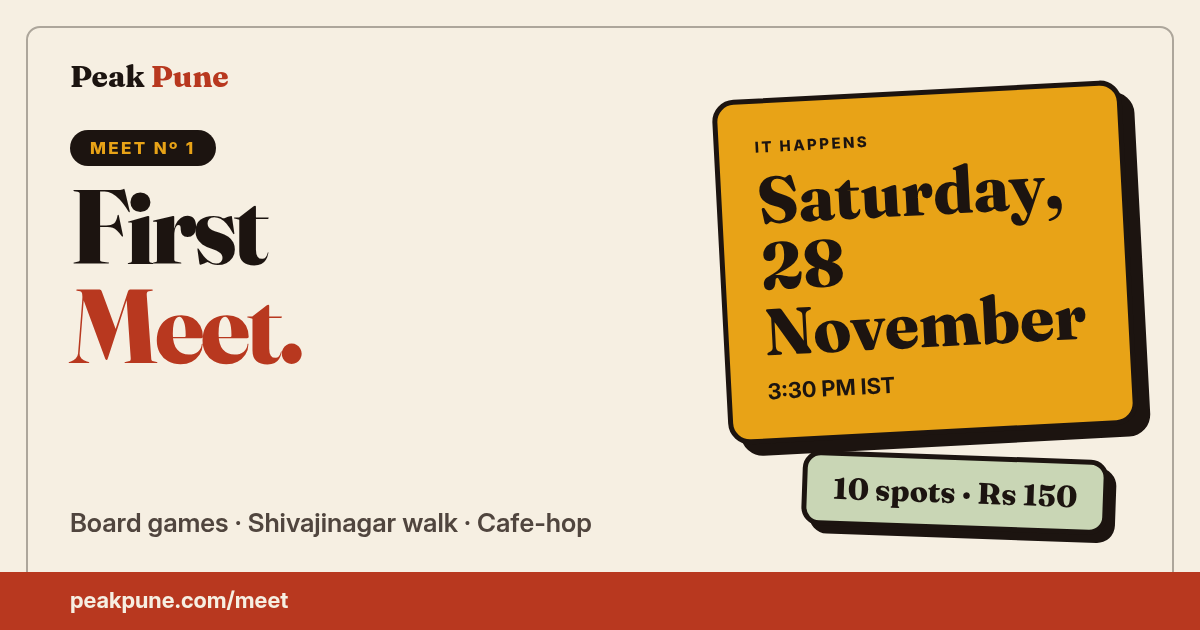
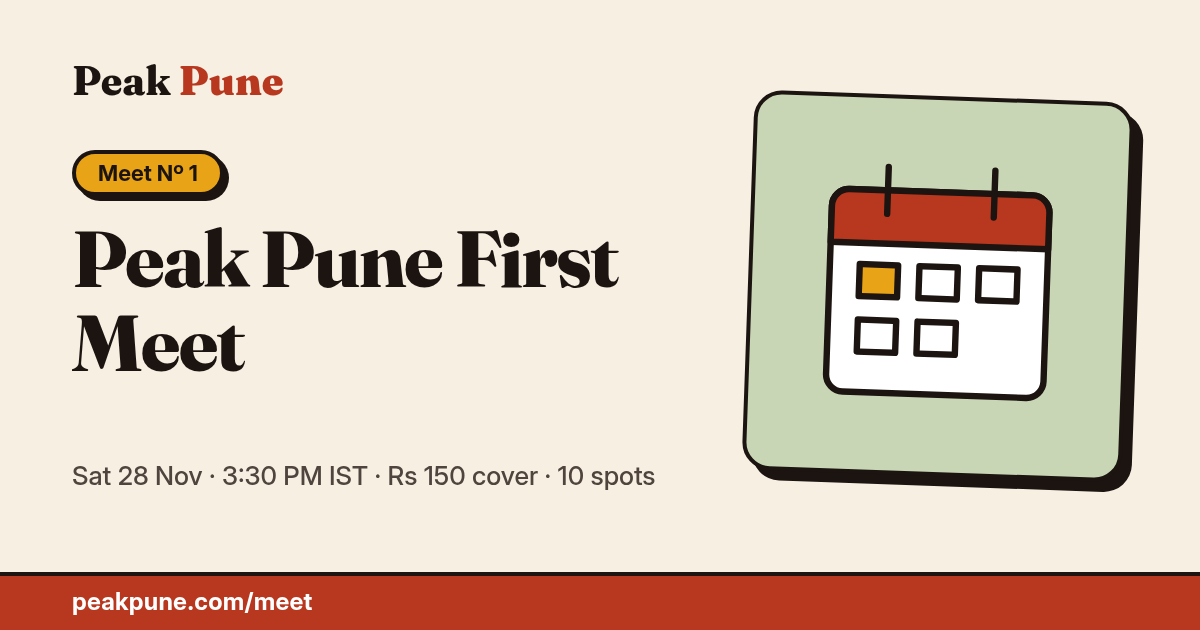
Meet: drop the live spots-open count, first come first served
No backend tracks paid spots, so the count could go stale. Show
'10 spots, first come first served' on the meet card, Events card,
homepage poster and OG image; a Full state is set manually.

diff --git a/public/index.html b/public/index.html
@@ -42,7 +42,7 @@
 <p class="lede">City radar for the interesting side of Pune. A short list, every pick linked to its source.</p>
 <p class="actions"><a class="primary" href="#radar">See what is on the radar</a><a class="chip" href="/manifesto/">Read the manifesto</a></p></div>
 <div class="sign" lang="mr">दुपारी १ ते ४<br>दुकान बंद<small lang="en">PEAK PUNE · THE CITY HAS ITS TIMINGS.</small></div></div>
-<a class="meet-poster section" href="/meet/" aria-label="Peak Pune First Meet. View details and RSVP"><div class="meet-poster-copy"><span class="eyebrow">Official Peak Pune meet · Nº 1 · Exclusive, strictly 10 people</span><h2>Peak Pune <em>First Meet.</em></h2><p class="meet-poster-date">Saturday, 28 Nov 2026 <span>3:30 PM IST · First meet</span></p><p>3:30 PM sharp · Board game cafe, location shared after payment</p><p>Then we take a Shivajinagar walk. After that, we cafe-hop depending on the vibe: Good Luck, Chirp or somewhere else.</p><p>10 spots · 10 open · Rs 150 cover charge by UPI, then confirm on WhatsApp.</p><p class="note">Hosted by Shreya, with co-host Aakash.</p></div><span class="meet-poster-cta">See the meet and RSVP <span aria-hidden="true">↗</span></span></a>
+<a class="meet-poster section" href="/meet/" aria-label="Peak Pune First Meet. View details and RSVP"><div class="meet-poster-copy"><span class="eyebrow">Official Peak Pune meet · Nº 1 · Exclusive, strictly 10 people</span><h2>Peak Pune <em>First Meet.</em></h2><p class="meet-poster-date">Saturday, 28 Nov 2026 <span>3:30 PM IST · First meet</span></p><p>3:30 PM sharp · Board game cafe, location shared after payment</p><p>Then we take a Shivajinagar walk. After that, we cafe-hop depending on the vibe: Good Luck, Chirp or somewhere else.</p><p>10 spots, first come first served · Rs 150 cover charge by UPI, then confirm on WhatsApp.</p><p class="note">Hosted by Shreya, with co-host Aakash.</p></div><span class="meet-poster-cta">See the meet and RSVP <span aria-hidden="true">↗</span></span></a>
 <nav class="tiles" aria-label="Browse Pune"><a class="category" href="/places/"><h3>Places</h3><span>28 with sources</span></a><a class="category" href="/outdoors/#runs"><h3>Runs and trails</h3><span>8 mapped city loops</span></a><a class="category" href="/outdoors/#treks"><h3>Treks and day trips</h3><span>20 with drive times</span></a><a class="category" href="/interests/"><h3>Interests</h3><span>Treks, books, food, history and more</span></a><a class="category" href="/events/"><h3>Events</h3><span>Plans, with sources</span></a><a class="category" href="/meetups/"><h3>Meetups</h3><span>Communities to join</span></a><a class="category" href="/groups/"><h3>Groups</h3><span>WhatsApp channels and chats</span></a><a class="category" href="/links/"><h3>Links</h3><span>Every Peak Pune link, one page</span></a><a class="category" href="/PuneMetroguide/"><h3>Pune Metro</h3><span>Journey planner, works offline</span></a></nav>
 <section class="section now" id="pune-now" aria-label="Pune right now"><div class="section-head"><h2>Pune right now</h2><p>Air quality, the next hour's temperature, and sun and moon times.</p></div><p class="now-summary" id="pune-now-summary">Loading current conditions for Pune...</p><div class="now-grid" aria-live="polite"><div class="now-cell"><h3>Air quality</h3><p class="now-value">...</p><p class="note">&nbsp;</p></div><div class="now-cell"><h3>Next hour</h3><p class="now-value">...</p><p class="note">&nbsp;</p></div><div class="now-cell"><h3>Sun</h3><p class="now-value">...</p><p class="note">&nbsp;</p></div><div class="now-cell"><h3>Moon</h3><p class="now-value">...</p><p class="note">&nbsp;</p></div></div><p class="note">Weather and air quality from <a href="https://open-meteo.com/" rel="noopener noreferrer" target="_blank">Open-Meteo.com</a> (CC BY 4.0), loaded in your browser. AQI is the US scale. Moon times are worked out on your device and can be off by about 15 minutes.</p></section>
 <section class="section" id="radar" aria-label="What is on the radar"><div class="section-head"><h2>What is on the radar</h2><p>A short list for the next two weeks. Check dates and prices before you go.</p><a class="more" href="/events/">Events page</a></div><div class="radar-cards"></div><p class="note radar-empty">Nothing has passed the test yet this week. The scan continues.</p><p class="note">This is not an automatic feed, so the list can be short and can change.</p></section>

diff --git a/public/events/index.html b/public/events/index.html
@@ -38,7 +38,7 @@
 <main id="main" class="wrap">
 <nav class="crumbs" aria-label="Breadcrumb"><a href="/">Peak Pune</a><span aria-current="page">Events</span></nav><div class="hero"><div><div class="eyebrow">What is on</div><h1>Events and parties</h1><p class="lede">A short list of Pune plans worth leaving the house for. Every listing links to the source it came from.</p></div><div class="sign">Real plans.<br>Not invented<br>ones.<small>NO DEMO TICKETS · NO MADE-UP DATES</small></div></div>
 <nav class="chips jump" aria-label="On this page"><a class="chip" href="#radar">On the radar</a><a class="chip" href="#post-a-plan">Post a plan</a><a class="chip" href="#source-calendars">Source calendars</a></nav>
-<section class="section" id="peak-pune-first-meet" aria-label="Upcoming official Peak Pune meet"><div class="section-head"><h2>Upcoming from Peak Pune</h2><p>One official plan.</p></div><a class="meet-event-card" href="/meet/"><img class="meet-event-poster" src="/og/meet.png" alt="Peak Pune First Meet poster: Saturday, 28 November, 3:30 PM IST, 10 spots, Rs 150" width="1200" height="630" loading="lazy"><span class="eyebrow">Official Peak Pune meet · Nº 1</span><h3>Peak Pune First Meet</h3><p class="meet-event-date">Saturday, 28 November 2026 · 3:30 PM IST</p><p>Board games at a cafe in Shivajinagar, then a walk and a cafe-hop. Exclusive, strictly 10 people, first come first served. 10 spots · 10 open · Rs 150 cover charge.</p><span class="meet-event-cta">Details and RSVP ↗</span></a></section><section class="section" id="radar" aria-label="What is on the radar"><div class="section-head"><h2>What is on the radar</h2><p>A short list for the next two weeks. Check dates and prices before you go.</p></div><div class="radar-cards"></div><p class="note radar-empty">Nothing has passed the test yet this week. The scan continues.</p><p class="note">This is not an automatic feed, so the list can be short and can change.</p></section>
+<section class="section" id="peak-pune-first-meet" aria-label="Upcoming official Peak Pune meet"><div class="section-head"><h2>Upcoming from Peak Pune</h2><p>One official plan.</p></div><a class="meet-event-card" href="/meet/"><img class="meet-event-poster" src="/og/meet.png" alt="Peak Pune First Meet poster: Saturday, 28 November, 3:30 PM IST, 10 spots, Rs 150" width="1200" height="630" loading="lazy"><span class="eyebrow">Official Peak Pune meet · Nº 1</span><h3>Peak Pune First Meet</h3><p class="meet-event-date">Saturday, 28 November 2026 · 3:30 PM IST</p><p>Board games at a cafe in Shivajinagar, then a walk and a cafe-hop. Exclusive, strictly 10 people, first come first served. 10 spots · Rs 150 cover charge.</p><span class="meet-event-cta">Details and RSVP ↗</span></a></section><section class="section" id="radar" aria-label="What is on the radar"><div class="section-head"><h2>What is on the radar</h2><p>A short list for the next two weeks. Check dates and prices before you go.</p></div><div class="radar-cards"></div><p class="note radar-empty">Nothing has passed the test yet this week. The scan continues.</p><p class="note">This is not an automatic feed, so the list can be short and can change.</p></section>
 <section class="section post-plan" id="post-a-plan"><div class="section-head"><h2>Post a plan</h2><p>Know something happening in Pune? Send it in. Every plan is read by a person before it shows here. Never add a phone number or email.</p></div>
 <form class="plan-form" id="plan-form" method="post" action="#post-a-plan" novalidate>
 <label><span>Plan title</span><input name="title" maxlength="80" required></label>

diff --git a/tests/build.test.js b/tests/build.test.js
@@ -21,8 +21,8 @@ test('meet page has a scheduled Event entity and remains indexable in sitemap',(
   assert.ok(readFileSync(join(d,'sitemap.xml'),'utf8').includes('<loc>https://peakpune.com/meet/</loc>'));
   assert.ok(urls.some(([p])=>p==='/meet/'));
 });
-test('official First Meet appears on upcoming events surface and links to /meet',()=>{const d=mkdtempSync(join(tmpdir(),'pp-official-meet-'));build({outDir:d});const h=readFileSync(join(d,'events/index.html'),'utf8');const card=h.match(/<a class="meet-event-card"[\s\S]*?<\/a>/)?.[0]||'';assert.ok(card);assert.match(card,/href="\/meet\/"/);for(const copy of ['Peak Pune First Meet','Saturday, 28 November 2026','3:30 PM IST','cafe in Shivajinagar','Shivajinagar','10 spots · 10 open','Rs 150','/og/meet.png'])assert.ok(card.toLowerCase().includes(copy.toLowerCase()),copy);assert.ok(!/5:30|Shivajinagar park|3 spots left|9 filled/i.test(card));});
-test('meet urgency and fresh capacity are truthful across the page, Events card, and homepage',()=>{const d=mkdtempSync(join(tmpdir(),'pp-meet-count-'));build({outDir:d});for(const path of ['meet/index.html','events/index.html','index.html']){const h=readFileSync(join(d,path),'utf8');assert.ok(h.includes('3:30 PM'),path);assert.ok(h.includes('10 spots'),path);assert.ok(h.includes('10 open'),path);assert.ok(!/3 spots left|9 filled|9 spots filled|7 spots left/i.test(h),path);}});
+test('official First Meet appears on upcoming events surface and links to /meet',()=>{const d=mkdtempSync(join(tmpdir(),'pp-official-meet-'));build({outDir:d});const h=readFileSync(join(d,'events/index.html'),'utf8');const card=h.match(/<a class="meet-event-card"[\s\S]*?<\/a>/)?.[0]||'';assert.ok(card);assert.match(card,/href="\/meet\/"/);for(const copy of ['Peak Pune First Meet','Saturday, 28 November 2026','3:30 PM IST','cafe in Shivajinagar','Shivajinagar','10 spots','Rs 150','/og/meet.png'])assert.ok(card.toLowerCase().includes(copy.toLowerCase()),copy);assert.ok(!/5:30|Shivajinagar park|3 spots left|9 filled/i.test(card));});
+test('meet urgency and fresh capacity are truthful across the page, Events card, and homepage',()=>{const d=mkdtempSync(join(tmpdir(),'pp-meet-count-'));build({outDir:d});for(const path of ['meet/index.html','events/index.html','index.html']){const h=readFileSync(join(d,path),'utf8');assert.ok(h.includes('3:30 PM'),path);assert.ok(h.includes('10 spots'),path);assert.ok(h.includes('first come'),path);assert.ok(!/10 open|3 spots left|9 filled|9 spots filled|7 spots left/i.test(h),path);}});
 test('build writes one canonical page per sitemap url',()=>{const d=mkdtempSync(join(tmpdir(),'pp-'));const urls=build({outDir:d});assert.ok(urls.length>30);
   for(const [p] of urls){const f=join(d,p,'index.html');assert.ok(existsSync(f),p);const h=readFileSync(f,'utf8');assert.ok(h.includes(`<link rel="canonical" href="${SITE_URL}${p}">`),p);assert.equal((h.match(/<h1/g)||[]).length,1,p);JSON.parse(h.match(/ld\+json">(.*?)<\/script>/s)[1]);}
   const sm=readFileSync(join(d,'sitemap.xml'),'utf8');assert.equal((sm.match(/<loc>/g)||[]).length,urls.length);assert.ok(!sm.includes('404'));});

diff --git a/tests/meet-static.test.js b/tests/meet-static.test.js
@@ -8,7 +8,7 @@ const read = p => readFileSync(new URL(p, import.meta.url), 'utf8');
 test('meet is static pay-and-confirm with no RSVP collection routes', () => {
   const out=mkdtempSync(join(tmpdir(),'pp-meet-static-')); build({outDir:out});
   const html=readFileSync(join(out,'meet/index.html'),'utf8');
-  for(const s of ['Board game cafe, Shivajinagar','3:30 PM sharp','10 spots · 10 open','aakash.kamdi@superyes','/meet-payment.svg','Location shared after payment.','wa.me/919404828072','upi://pay?pa=aakash.kamdi%40superyes&amp;pn=Aakash%20Kamdi&amp;am=150&amp;cu=INR&amp;tn=PeakPune%20Meet%201st','tez://upi/pay?pa=aakash.kamdi%40superyes&amp;pn=Aakash%20Kamdi&amp;am=150&amp;cu=INR&amp;tn=PeakPune%20Meet%201st','phonepe://pay?pa=aakash.kamdi%40superyes&amp;pn=Aakash%20Kamdi&amp;am=150&amp;cu=INR&amp;tn=PeakPune%20Meet%201st','data-copy-upi="aakash.kamdi@superyes"','Copy UPI ID','meet-payment.js','Paid%20Rs%20150%20for%20the%20First%20Meet.%20My%20name%3A%20','Aakash confirms your spot','He’ll add you to the group','twitter:image','og:image']) assert.ok(html.includes(s),s);
+  for(const s of ['Board game cafe, Shivajinagar','3:30 PM sharp','10 spots · first come, first served','aakash.kamdi@superyes','/meet-payment.svg','Location shared after payment.','wa.me/919404828072','upi://pay?pa=aakash.kamdi%40superyes&amp;pn=Aakash%20Kamdi&amp;am=150&amp;cu=INR&amp;tn=PeakPune%20Meet%201st','tez://upi/pay?pa=aakash.kamdi%40superyes&amp;pn=Aakash%20Kamdi&amp;am=150&amp;cu=INR&amp;tn=PeakPune%20Meet%201st','phonepe://pay?pa=aakash.kamdi%40superyes&amp;pn=Aakash%20Kamdi&amp;am=150&amp;cu=INR&amp;tn=PeakPune%20Meet%201st','data-copy-upi="aakash.kamdi@superyes"','Copy UPI ID','meet-payment.js','Paid%20Rs%20150%20for%20the%20First%20Meet.%20My%20name%3A%20','Aakash confirms your spot','He’ll add you to the group','twitter:image','og:image']) assert.ok(html.includes(s),s);
   for(const [handle,url] of [['@shreyashuks','https://instagram.com/shreyashuks'],['@dotslashaakash','https://instagram.com/dotslashaakash']]) assert.match(html,new RegExp(`<a class="mt-host-btn" href="${url}" target="_blank" rel="noopener noreferrer">${handle}<\\/a>`));
   for(const s of ['mt-form','mt-spots','Place TBC','12 spots','Meet Nº 1 · Admin','5:30 PM','Shivajinagar park','paytmmp','Paytm']) assert.ok(!html.includes(s),s);
   assert.throws(() => read('../functions/api/meet-rsvp.js'));

diff --git a/public/meet/index.html b/public/meet/index.html
@@ -44,7 +44,7 @@
 <div class="mt-date"><small>It happens</small><b>Saturday, 28 November 2026</b><span>3:30 PM sharp IST · Please be on time</span></div>
 <div class="mt-pills">
 <div class="mt-pill mt-sg"><small>Where</small><b>Board game cafe, Shivajinagar</b></div>
-<div class="mt-pill mt-cl"><small>Small group</small><b>10 spots · 10 open</b></div>
+<div class="mt-pill mt-cl"><small>Small group</small><b>10 spots · first come, first served</b></div>
 </div>
 <p class="mt-host">Hosted by <b>Shreya</b>, Admin of PeakPune · <a class="mt-host-btn" href="https://instagram.com/shreyashuks" target="_blank" rel="noopener noreferrer">@shreyashuks</a><br>Co-host <b>Aakash</b>, founder of PeakPune · <a class="mt-host-btn" href="https://instagram.com/dotslashaakash" target="_blank" rel="noopener noreferrer">@dotslashaakash</a></p>
 <div class="mt-social" aria-label="Follow Peak Pune">

diff --git a/site/pages/meet.html b/site/pages/meet.html
@@ -6,7 +6,7 @@
 <div class="mt-date"><small>It happens</small><b>Saturday, 28 November 2026</b><span>3:30 PM sharp IST · Please be on time</span></div>
 <div class="mt-pills">
 <div class="mt-pill mt-sg"><small>Where</small><b>Board game cafe, Shivajinagar</b></div>
-<div class="mt-pill mt-cl"><small>Small group</small><b>10 spots · 10 open</b></div>
+<div class="mt-pill mt-cl"><small>Small group</small><b>10 spots · first come, first served</b></div>
 </div>
 <p class="mt-host">Hosted by <b>Shreya</b>, Admin of PeakPune · <a class="mt-host-btn" href="https://instagram.com/shreyashuks" target="_blank" rel="noopener noreferrer">@shreyashuks</a><br>Co-host <b>Aakash</b>, founder of PeakPune · <a class="mt-host-btn" href="https://instagram.com/dotslashaakash" target="_blank" rel="noopener noreferrer">@dotslashaakash</a></p>
 <div class="mt-social" aria-label="Follow Peak Pune">
